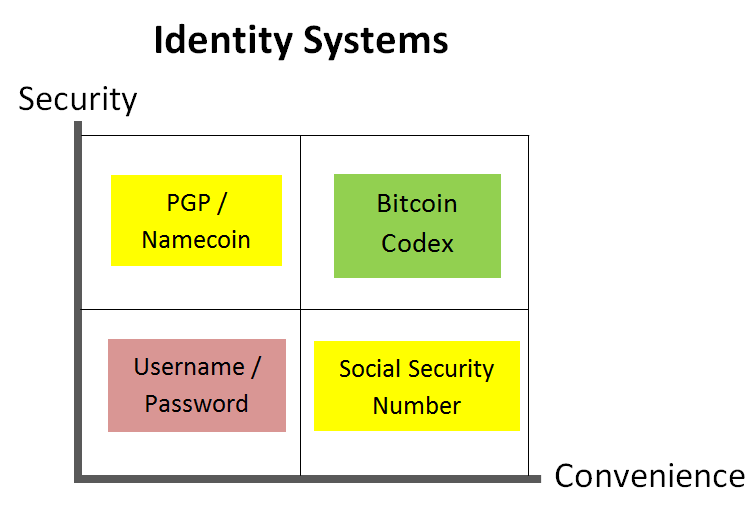
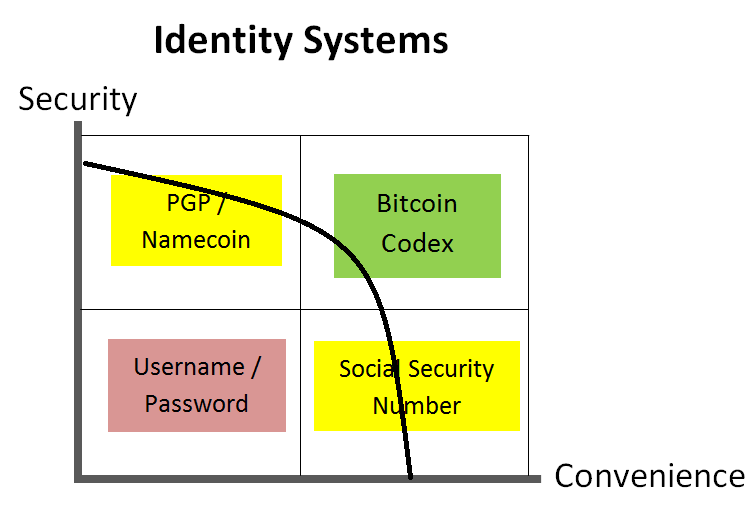
Typos

diff --git a/_posts/2016-05-21-codex-identity-sidechain.md b/_posts/2016-05-21-codex-identity-sidechain.md
@@ -7,19 +7,22 @@ comments: true
 Motivation & Scope
 --------------------
 
-(Basics) Any private computer system implies the existence of identities. Without them, the web would be overrun by spam, Sybil attacks, and so forth. Fortunately, authentication (usernames and passwords) was invented, allowing individuals to control, and "own" a private digital identity.
+(Basics) Any private computer system implies the existence of identities. Without identities, privacy and most commerce would be impossible, and the web would be overrun by spam, Sybil attacks, and so forth. Fortunately, authentication (usernames and passwords) was invented, allowing individuals to control, and "own" a private slice of cyberspace.
 
-(Today) Many authentication methods are used today. They are, perhaps, best arranged along a line of "convenience-security tradeoff": On one extreme, Snowden used PGP, and insisted that his correspondents use it as well (despite their considerable reluctance). On the other extreme, all Americans today use their Social Security Number as both an ID and a password -- it is used to file taxes, apply for credit, fulfill civic obligations.  The SSN is convenient because enrollment is free, automatic, and universal.
+(Today) Many authentication methods are used today. They might best be arranged along a "convenience-security tradeoff": On one extreme, Snowden used PGP, and insisted that his correspondents use it as well (despite their considerable reluctance). On the other extreme, all Americans today use their Social Security Number as an ID (and as a password) -- it is used to file taxes, apply for credit, and fulfill civic obligations.  The SSN is convenient because enrollment is free, automatic, and universal.
 
 This project aims at neither extreme, and instead seeks an intelligent trade-off between convenience and security. 
 
 ![extremes](/images/id-extremes.png)
 
 By the metric of "convenience", the SSN is the most successful.
+
 ![extremes](/images/ssn-convenient.png)
 
 However, by the metric of "security", PGP is the most successful.
 (As far as we know, the security is invincible.)
+
+### Comparison Table
 
 
 |Feature                                     |  PGP |  SSN | Codex |
@@ -55,13 +58,13 @@ This project DOES NOT address these problems:
 Design
 -------
 
-Our design calls for a blockchain which tracks and updates key-value pairs. Whereas, typically, blockchains are used to achieve decentralization, in this case one is used for security and uniqueness. Security: a single administrator cannot steal *all* of society's most valuable identities. Uniqueness: the question of "Why should I switch to your ID standard?" (which is of immense practical importance) is met with the answer that *this* one is public. There are many ways of privatizing something (one per owner), but -per algorithm- only one *public* system.
+Our design calls for a blockchain\* which tracks and updates key-value pairs. Whereas, typically, blockchains are used to achieve decentralization, in this case one is used for security and uniqueness. Security: a single administrator cannot steal *all* of society's most valuable identities. Uniqueness: the question of "Why should I switch to your ID standard?" (which is of immense practical importance) is met with the answer that *this* one is public. There are many ways of privatizing something (one per owner), but -per algorithm- only one *public* system.
 
-*A merge-mined Bitcoin sidechain.
+\*A merge-mined Bitcoin sidechain.
 
 The sidechain is financed by transaction fees. The transactions are paid by users who wish to add or update entries to the database. Nodes are run by anyone who wants (or, for compliance purposes, is required) to verify identities "properly". (Everyone else would just use Google's node).
 
-In general, the value proposition is that digital service providers (Facebook, YouTube, Disqus, etc) can replace several labor-intensive services with software. In particular, customer support tickets related to resetting accounts: either because the passwords are lost, or because accounts/identities were stolen. Moreover, the existence of a durable, long term, multipurpose digital identity may allow new services to be rendered (tiered Spam prevention, for example), and may improve existing services (encrypted email, accurate routing of payments, secure filing of taxes, etc).
+In general, the **value proposition** is that digital service providers (Facebook, YouTube, Disqus, etc) can replace several labor-intensive services with software. In particular, customer support tickets related to resetting accounts: either because the passwords are lost, or because accounts/identities were stolen. Moreover, the existence of a durable, long term, multipurpose digital identity may allow new services to be rendered (tiered Spam prevention, for example), and may improve existing services (encrypted email, accurate routing of payments, secure filing of taxes, etc).
 
 The identities are associated with cryptographic keys, and these keys are managed **in a way similar to how humans use physical keys**. Namely, on television show Seinfeld, the main characters all have copies of each other's apartment keys, for emergencies.
 
@@ -140,7 +143,7 @@ Conversely, if keys are misused by their *current* owners, then cryptographic pr
 Scale
 --------
 
-Total economic costs are unknown, but we can estimate one cost -- storage.
+Total economic costs are unknown, but we can estimate one cost: storage.
 
 Under the following assumptions:
 
@@ -158,43 +161,43 @@ A 1,000 GB hard drive costs roughly 80 USD. According [to Gallup](http://www.gal
 Problems
 ----------
 
-1] Miners might just censor updates from people they don't like.
+**1] Miners might just censor updates from people they don't like.**
 
 Not really a problem, because the database doesn't need to be realtime interactive...as long as the current database-state exists, anyone can look up a (Name, Pubkey) pair. Since they have the current pubkey (and since the pubkeys rarely change).
 
 For the duration a 51% miner-coalition is in control, however, victims will not be able to change their Name, Public Key, or Associates. So, for them, convenience has temporarily degraded to the PGP level. Nonetheless, they retain any identities they possessed before the attack began.
 
-2] Front-Running Names
+**2] Front-Running Names**
 
 This is not really a problem here (as it would be in the case of Namecoin). If "Paul Felix Sztorc" is taken, the protocol will just auto-register "Paul Felix Sztorc II" on my behalf. Then I will communicate my number to my friends.
 
 For a business, it may be more of a problem. Businesses may not need their own cryptographic identities, however (as each and every employee will have one).
 
-3] Friendship Drama
+**3] Friendship Drama**
 
 "The whole world will know that we're not best friends anymore!""
 
-Yes, yes. Very tragic. Choose family for this reason, then. Blood is thicker than...
+Yes, yes. Very tragic. Choose family, or co-workers for this reason, then.
 
-4] "Now *they* know who to torture/blackmail!"
+**4] "Now *they* know who to torture/blackmail!"**
 
 First of all, if adversaries were going through with physical capture and torture, they probably willing to put in the comparatively small effort it takes to to locate ones friends. In other words, they knew anyway.
 
 Secondly, they need 50% of your friend-weight (and, they need them at around the same time). If you choose a large enough quantity of friends, and/or individuals who are geographically distributed, then crime against the group as a whole becomes more difficult.
 
-5] This is putting too many eggs in one basket! Once an attack gets this key, they'll get into all of my stuff!
+**5] This is putting too many eggs in one basket! Once an attack gets this key, they'll get into all of my stuff!**
 
 Not necessarily. Even if this Identification method becomes widespread, to the point where it becomes the "single sign on" for the internet, it does *not* necessarily need to replace *all* the security features of, say, gmail. For one example, most websites today use two factor authentication. A second example: most websites track the *physical devices* which connect to their servers for authentication. Google will often ask you to "add a device" if your device is unfamiliar. Meanwhile, it will notify you about foreign devices which are claiming to have you behind them. These practices could (and should) persist.
 
-6] My mean "friends" *stole* my identity and won't give it back!
+**6] My mean "friends" *stole* my identity and won't give it back!**
 
 The individuals you "chose" are not your friends! Create a new identity and start over. Children should have their parent's / parent's friends as the ID-resetters. The elderly might use their own children as the resetters.
 
-Alternatively, sue them for identity theft.
+Alternatively, sue them for identity theft. (It's not like you don't know where to find them.)
 
-7] I'm very unpopular and/or too paranoid to trust friends.
+**7] I'm very unpopular and/or too paranoid to trust friends.**
 
-Use PGP. (And, don't forget your password)! Or, use your lawyer.
+Use PGP. (And, don't forget your password!) Or, use your lawyer.
 
 
 
@@ -212,7 +215,7 @@ Identity, in a practical sense, *isn't* individual -- I already know who *I* am.
 Let's address the problem which digital identity might solve. Imagine I get the following email:
 
     Dear Paul,
-    I am "Francis Bacon". Please reply to me at your earliest convenience. But, beware! Lots of people are going around pretending to be me, via email! Don't trust them and don't reply to them.
+    I am "Francis Bacon". Please reply at your earliest convenience. But, beware! Lots of people are going around pretending to be me, via email! Don't trust them and don't reply to them.
     Sincerely,
     Francis
 
@@ -233,17 +236,21 @@ Historically, names have achieved uniqueness in several ways:
 
 Most of these would appear to be discriminatory:
 
-* Age (in most cultures, impolite to be compelled to reveal this -- for women in particular)
+* Age (in most cultures, it is impolite to be compelled to reveal this -- for women in particular)
 * Place of Birth (may be a basis for discrimination)
-* Job Title (titles of nobility, inherently anti-egalitarian)
+* Job Title (titles of nobility are inherently anti-egalitarian)
 
-In fictional world of "Game of Thrones", identities and names (particularly family names) are of preeminent geopolitical significance (even, mortal significance). A character introduces herself as "Daenerys Stormborn, of House Targaryren, First of Her Name, Queen of Meereen, Queen of the An...Breaker of Chains, Mother of Dragons". Using, in order, "given name", "weather conditions at birth", "title of nobility", "family name", "numeric sequence", and "job titles / resume".
+In fictional world of "Game of Thrones", identities and names (particularly family names) are of preeminent geopolitical significance (even, mortal significance). A character introduces herself as "Daenerys Stormborn, of House Targaryren, First of Her Name, Queen of Meereen, Queen of the An...Breaker of Chains, Mother of Dragons". This introduction uses, in order: "given name", "weather conditions at birth", "title of nobility", "family name", "numeric sequence", and "job titles / resume".
 
 Since job titles are transient and transferable (as are titles of nobility), it would seem appropriate to establish the identity first, and only later link the identity to titles and achievements.
 
-It would seem that <First> <Middle> <Last> <Sequence> is the most appropriate naming syntax. With geographical partitioning automatically occuring (as an consequence of names in different languages). Some cultures, like the Chinese, have no middle name, However, new traditions are emerging (where Chinese adopt an additional Western given name, so that they have three total). On the other hand, some cultures have more than three total names. These can be all ascribed to the "middle name" slot, subject to a character limit.
+It would seem that:
 
-The use of three names makes it less likely that the <Sequence> field will leak information about the individual's age. The <Sequence> field may also give parents useful information about name uniqueness!
+    <First> <Middle> <Last> <Sequence>
+	
+...is the most appropriate naming syntax. With geographical partitioning automatically occuring (as an consequence of names in different languages). Some cultures, like the Chinese, have no middle name, However, new traditions are emerging (where Chinese adopt an additional Western given name, so that they have three total). On the other hand, some cultures have more than three total names. These can be all ascribed to the "middle name" slot, subject to a character limit.
+
+The use of three names makes it less likely that the 'Sequence' field will leak information about the individual's age. The <Sequence> field may also give parents useful information about name uniqueness!
 
 The [proper encoding of names](http://kunststube.net/encoding/) is, to me, unknown. Capital letters may be unnecessary (the convention being universally known), yet international characters (for example, the Spanish tilde) would certainly be required.
 
@@ -257,17 +264,6 @@ To get a passport, one must bring other identification documents (from a predefi
 
 In addition, there are still penalties for attempting to subvert the document-issuance process. Those who sell fake ID may spent a considerable time in prison.
 
-We have three principles: redundancy, circularity, and punishment. Redundancy and Circularity have simple software-parallels (multiple ways to reset or reclaim an identity, all of which are distinct but related to each other).
+We have three principles: redundancy, circularity, and punishment. Redundancy and Circularity have simple software-parallels (multiple ways to reset or reclaim an identity, all of which are distinct but related to each other). Punishment is more difficult.
 
-
-
-
-{list of stuff}
-
-
-
-
-Details
----------
-
-Can be the H(PubKey) for space, as is done with Bitcoin. This might save some space.
+![id-redundancy](/images/id-docs.png)
